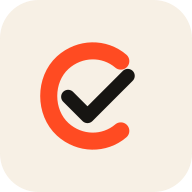
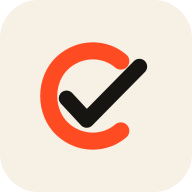
Refine checkmark to reference: bolder arm bursting through the C
The check's long arm now sweeps up and out through the C's opening and
past the right edge (tip high, up-right) instead of stopping at the edge,
and the stroke weight goes 18 -> 20 to match the reference identity.

Geometry (single source in scripts/logo-geometry.mjs, mirrored in
components/brand/Logo.tsx): check path M44 81L69 106L121 54 -> M42 83L68
111L136 42, stroke 20. Propagated to every inline mark (AuthMark,
LogoStatus, CheckoutCard, useFaviconStatus, global-error, middleware)
and all regenerated public assets (favicon, app icons, lockups, og).

No changes to auth, API routes, DB, Stripe, integrations, env, keys,
pricing, or copy. Logo geometry only.

Changed region(s): [[0.2812, 0.2812, 0.7812, 0.6875]]

diff --git a/src/components/auth/AuthMark.tsx b/src/components/auth/AuthMark.tsx
@@ -24,7 +24,7 @@
  */
 
 const C_PATH = "M112 35C91 17 59 17 37 37C13 59 13 101 37 123C59 143 91 143 112 125";
-const CHECK_PATH = "M44 81L69 106L121 54";
+const CHECK_PATH = "M42 83L68 111L136 42";
 
 function clamp01(n: number): number {
   if (!Number.isFinite(n)) return 0;
@@ -90,7 +90,7 @@ export function AuthMark({
         <path
           d={CHECK_PATH}
           stroke="var(--logo-check)"
-          strokeWidth={18}
+          strokeWidth={20}
           strokeLinecap="round"
           strokeLinejoin="round"
           opacity={0.28}
@@ -119,7 +119,7 @@ export function AuthMark({
         <path
           d={CHECK_PATH}
           stroke="var(--logo-check)"
-          strokeWidth={18}
+          strokeWidth={20}
           strokeLinecap="round"
           strokeLinejoin="round"
           pathLength={1}

diff --git a/src/components/checkout/CheckoutCard.tsx b/src/components/checkout/CheckoutCard.tsx
@@ -217,7 +217,7 @@ export function CheckoutCard({ state, scale = 1 }: { state: CardState; scale?: n
                   {/* embossed C+check mark */}
                   <svg width="26" height="26" viewBox="0 0 160 160" fill="none" className="ml-2 shrink-0">
                     <path d="M112 35C91 17 59 17 37 37C13 59 13 101 37 123C59 143 91 143 112 125" fill="none" stroke={SIGNAL} strokeWidth="22" strokeLinecap="round" />
-                    <path d="M44 81L69 106L121 54" fill="none" stroke={CREAM} strokeOpacity="0.9" strokeWidth="18" strokeLinecap="round" strokeLinejoin="round" />
+                    <path d="M42 83L68 111L136 42" fill="none" stroke={CREAM} strokeOpacity="0.9" strokeWidth="20" strokeLinecap="round" strokeLinejoin="round" />
                   </svg>
                 </div>
               </div>

diff --git a/src/middleware.ts b/src/middleware.ts
@@ -71,7 +71,7 @@ const WARMING_HTML = `<!doctype html>
 <body>
   <svg viewBox="0 0 160 160" aria-hidden="true">
     <path d="M112 35C91 17 59 17 37 37C13 59 13 101 37 123C59 143 91 143 112 125" fill="none" stroke="#FF4B22" stroke-width="22" stroke-linecap="round"/>
-    <path class="tick" d="M44 81L69 106L121 54" fill="none" stroke="#171512" stroke-width="18" stroke-linecap="round" stroke-linejoin="round"/>
+    <path class="tick" d="M42 83L68 111L136 42" fill="none" stroke="#171512" stroke-width="20" stroke-linecap="round" stroke-linejoin="round"/>
   </svg>
   <h1>cosigno is warming up</h1>
   <p>the workspace is being configured &mdash; back shortly.<br/>the rest of the site works right now &mdash; including the full demo.</p>

diff --git a/src/lib/useFaviconStatus.ts b/src/lib/useFaviconStatus.ts
@@ -17,7 +17,7 @@ const LINK_ID = "favicon-status";
 // The mark with a filled orange notification badge in the lower-right.
 const PENDING_SVG = `<svg xmlns="http://www.w3.org/2000/svg" viewBox="0 0 160 160">
 <path d="M112 35C91 17 59 17 37 37C13 59 13 101 37 123C59 143 91 143 112 125" fill="none" stroke="#FF4B22" stroke-width="22" stroke-linecap="round"/>
-<path d="M44 81L69 106L121 54" fill="none" stroke="#171512" stroke-width="18" stroke-linecap="round" stroke-linejoin="round"/>
+<path d="M42 83L68 111L136 42" fill="none" stroke="#171512" stroke-width="20" stroke-linecap="round" stroke-linejoin="round"/>
 <circle cx="132" cy="132" r="26" fill="#FF4B22" stroke="#FBF4EA" stroke-width="8"/>
 </svg>`;
 

diff --git a/src/components/LogoStatus.tsx b/src/components/LogoStatus.tsx
@@ -33,7 +33,7 @@ export type LogoStatusState =
   | "error";
 
 const C_PATH = "M112 35C91 17 59 17 37 37C13 59 13 101 37 123C59 143 91 143 112 125";
-const CHECK_PATH = "M44 81L69 106L121 54";
+const CHECK_PATH = "M42 83L68 111L136 42";
 
 /** Label text beside the mark — exported for tests and reuse. */
 export function statusLabel(state: LogoStatusState, awaiting: number): string {
@@ -146,7 +146,7 @@ export function LogoStatus({
             <path
               d={CHECK_PATH}
               stroke="var(--logo-check)"
-              strokeWidth={18}
+              strokeWidth={20}
               strokeLinecap="round"
               strokeLinejoin="round"
               pathLength={1}

diff --git a/src/app/global-error.tsx b/src/app/global-error.tsx
@@ -38,7 +38,7 @@ export default function GlobalError({
       >
         <svg width="48" height="48" viewBox="0 0 160 160" fill="none" aria-hidden="true">
           <path d="M112 35C91 17 59 17 37 37C13 59 13 101 37 123C59 143 91 143 112 125" stroke="#FF4B22" strokeWidth={22} strokeLinecap="round" />
-          <path d="M44 81L69 106L121 54" stroke="#171512" strokeWidth={18} strokeLinecap="round" strokeLinejoin="round" />
+          <path d="M42 83L68 111L136 42" stroke="#171512" strokeWidth={20} strokeLinecap="round" strokeLinejoin="round" />
         </svg>
         <div>
           <h1 style={{ fontSize: 24, fontWeight: 800, margin: 0, textTransform: "lowercase" }}>

diff --git a/src/components/brand/Logo.tsx b/src/components/brand/Logo.tsx
@@ -26,9 +26,9 @@ import Link from "next/link";
 export const LOGO_VIEWBOX = "0 0 160 160";
 export const LOGO_C_PATH =
   "M112 35C91 17 59 17 37 37C13 59 13 101 37 123C59 143 91 143 112 125";
-export const LOGO_CHECK_PATH = "M44 81L69 106L121 54";
+export const LOGO_CHECK_PATH = "M42 83L68 111L136 42";
 export const LOGO_C_WIDTH = 22;
-export const LOGO_CHECK_WIDTH = 18;
+export const LOGO_CHECK_WIDTH = 20;
 
 export type LogoTheme = "light" | "dark" | "oled" | "auto";
 
